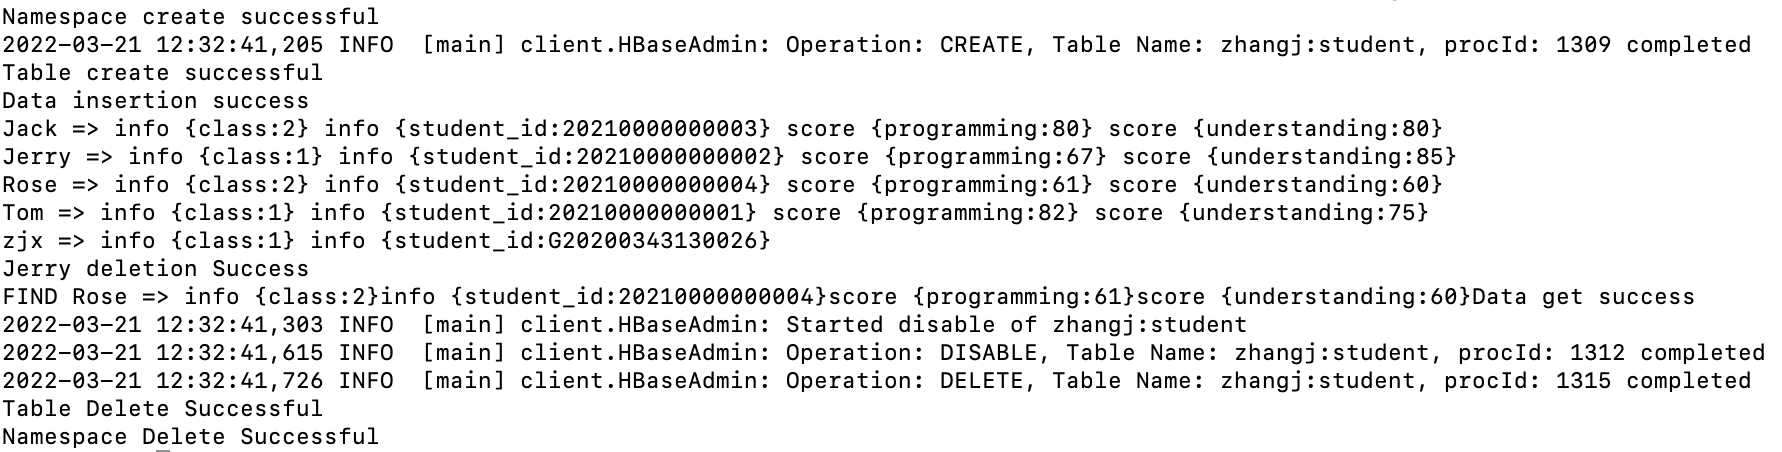
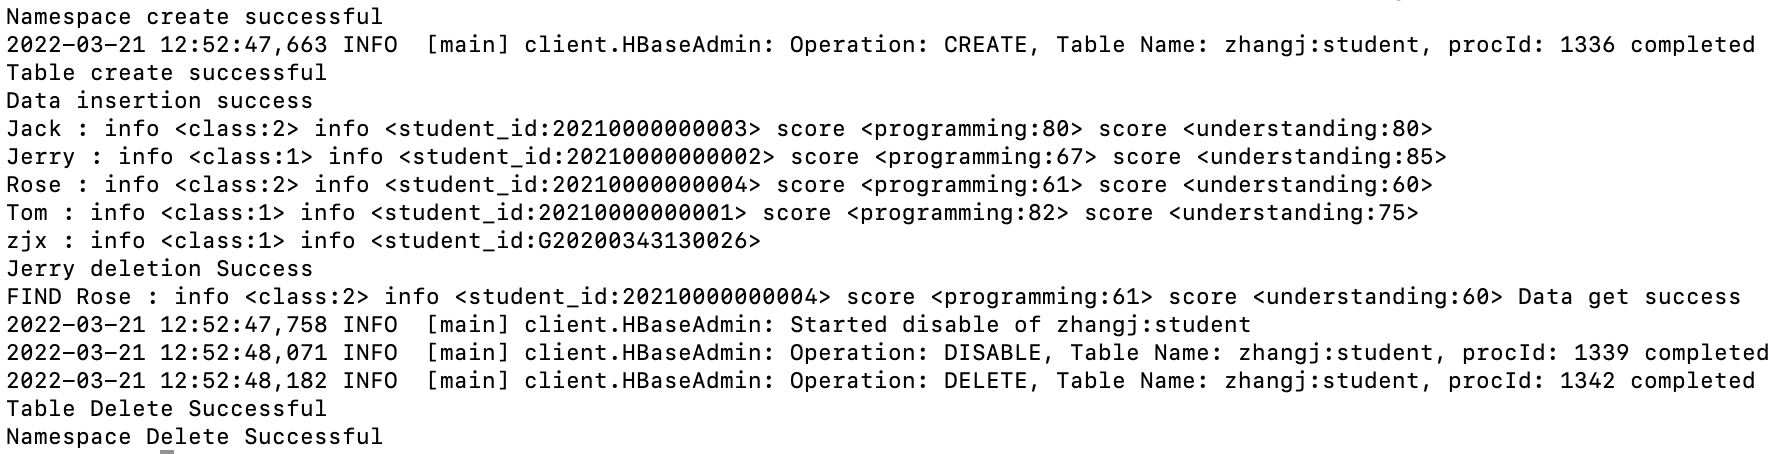
HW2

Changed region(s): [[0.0, 0.0, 0.9877, 1.0]]

diff --git a/HW2/HW2_HBase.java b/HW2/HW2_HBase.java
@@ -5,9 +5,9 @@ import org.apache.hadoop.hbase.util.Bytes;
 import java.io.IOException;
 import java.util.List;
 public class HW2_HBase{
-    public static void insertData(Connection connection, TableName tableName, String row, String columns, String cell, String value) throws IOException{
+    public static void insertData(Connection connection, TableName tableName, String row, String colFamily, String col, String cell) throws IOException{
         Put put = new Put(Bytes.toBytes(row));
-        put.addColumn(Bytes.toBytes(columns), Bytes.toBytes(cell), Bytes.toBytes(value));
+        put.addColumn(Bytes.toBytes(colFamily), Bytes.toBytes(col), Bytes.toBytes(cell));
 
         connection.getTable(tableName).put(put);
     }
@@ -84,9 +84,9 @@ public class HW2_HBase{
         Result result = null;
         while ((result = scanner.next()) != null) {
             List<Cell> cells = result.listCells();
-            System.out.print(Bytes.toString(CellUtil.cloneRow(cells.get(0))) + " => ");
+            System.out.print(Bytes.toString(CellUtil.cloneRow(cells.get(0))) + " : ");
             for (Cell cell : cells) {
-                System.out.print(Bytes.toString(CellUtil.cloneFamily(cell)) + " {" + Bytes.toString(CellUtil.cloneQualifier(cell)) + ":" + Bytes.toString(CellUtil.cloneValue(cell)) + "} ");
+                System.out.print(Bytes.toString(CellUtil.cloneFamily(cell)) + " <" + Bytes.toString(CellUtil.cloneQualifier(cell)) + ":" + Bytes.toString(CellUtil.cloneValue(cell)) + "> ");
             }
             System.out.println();
         }
@@ -98,9 +98,9 @@ public class HW2_HBase{
         Get get = new Get(Bytes.toBytes("Rose"));
         if (!get.isCheckExistenceOnly()) {
             Result result1 = conn.getTable(tableName).get(get);
-            System.out.print("FIND Rose => ");
+            System.out.print("FIND Rose : ");
             for (Cell cell : result1.rawCells()) {
-                System.out.print(Bytes.toString(CellUtil.cloneFamily(cell)) + " {" + Bytes.toString(CellUtil.cloneQualifier(cell)) + ":" + Bytes.toString(CellUtil.cloneValue(cell)) + "}");
+                System.out.print(Bytes.toString(CellUtil.cloneFamily(cell)) + " <" + Bytes.toString(CellUtil.cloneQualifier(cell)) + ":" + Bytes.toString(CellUtil.cloneValue(cell)) + "> ");
             }
             System.out.println("Data get success");
         }
